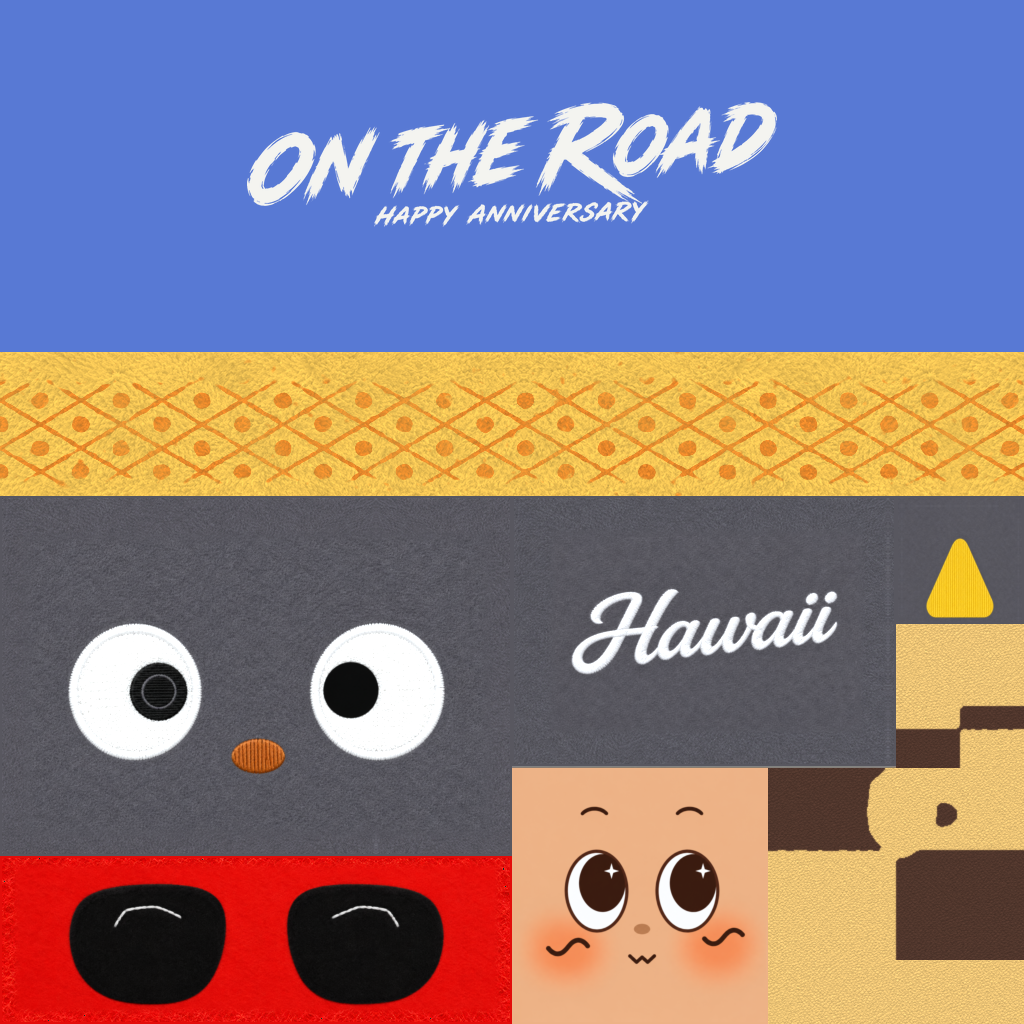
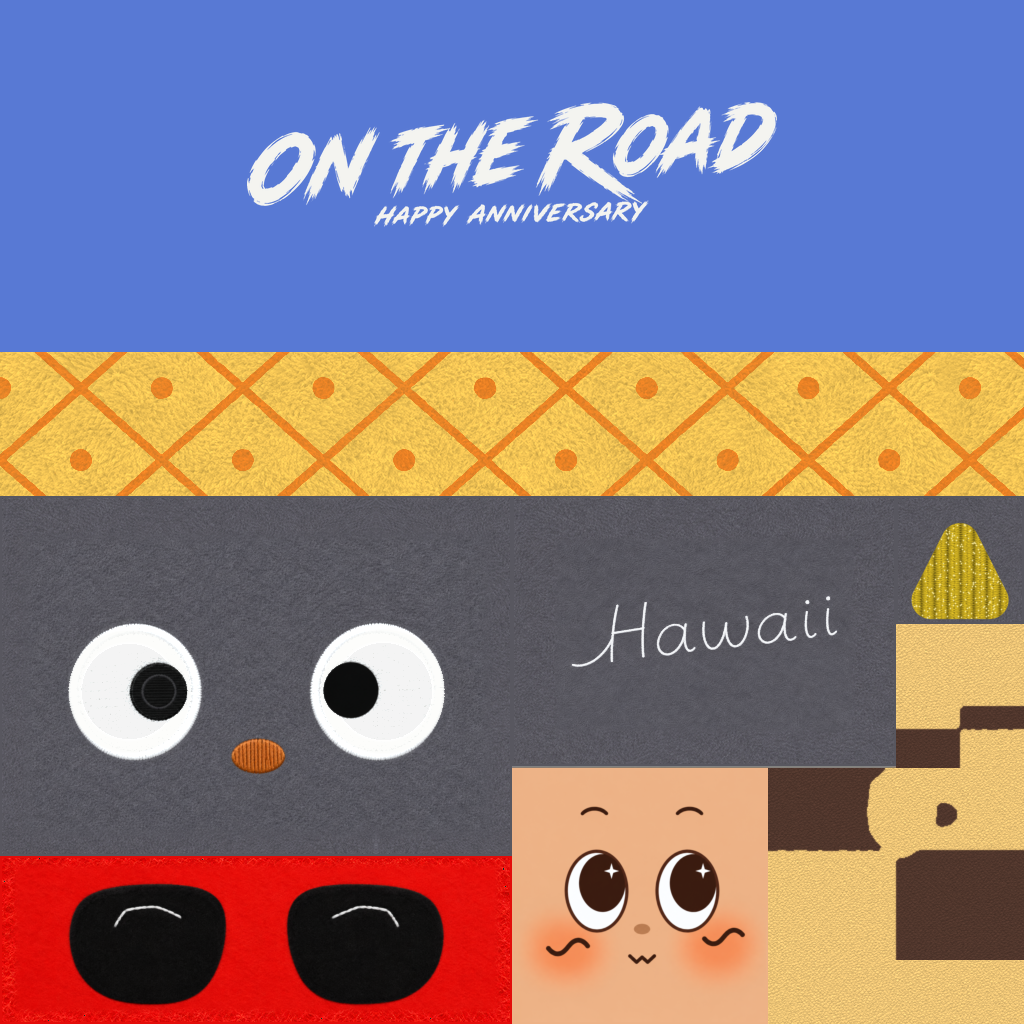
feat(room): the keepsakes' second pass: print, Hawaii, ear and eyes
The four islands the cloud thread asked for again after reading the
first repaint beside the photographs: the pineapple print redrawn at
its real size (six lines each way round the body, a dot in each
diamond, flat orange), "Hawaii" in a light open hand, the ear's lining
in olive gold with a metallic speck, and a wider, brighter rim to the
plush's eyes with a fainter ring in the left pupil. The mug, the
glasses and the figurine are untouched.

Changed region(s): [[0.0, 0.3438, 1.0, 0.625], [0.5625, 0.5625, 0.8125, 0.6562], [0.1562, 0.6562, 0.1875, 0.6875]]

diff --git a/docs/agents/pond-handoff.md b/docs/agents/pond-handoff.md
@@ -155,6 +155,27 @@ what is left, and what was learnt. What is open now is section 0.
   islands and the mug stay as they are. The painted relief on the stitches is slight enough
   to keep.
 
+  _Handed back: the second pass on those four islands_ (the picture 134 KB; the rest is as
+  it was).
+  1. `plush-print`: redrawn large. Six lines each way round the body, 162 pixels apart along
+     the island (970 / 6) and about 8 wide, crossing at about 45° in two rows of whole
+     diamonds 72 pixels tall; one round dot 22 across in the middle of each. A flat mid
+     orange (`#e88024`), no darker at the crossings, its edges a little uneven in the pile.
+     It repeats every 970 pixels exactly and runs to the top and bottom edges, with no plain
+     band under the collar or at the foot. The diamonds' height is a guess: say if the real
+     ones are taller or flatter.
+  2. `plush-back`: "Hawaii" in a light open hand: one thin even stroke about 2 pixels wide,
+     upright letters set wide apart, the word climbing about 8°, a tall open H with a
+     flourish in from the lower left, the w as two u's, nothing under the word, separate dots
+     on the i's. 265 wide with its flourish, centred at (704, 631). At this weight the satin
+     stitch across the stroke no longer shows: it reads as a white thread line.
+  3. `plush-ear`: an olive gold (`#b59a1e`) in upright thread rows with pale specks for the
+     metallic sparkle, as a triangle with three well-rounded corners, 97 wide by 96 tall in
+     its 128 box.
+  4. `plush-face`: each eye's rim is about 13 pixels wide and brighter than the terry inside
+     it, which is a touch greyer than before; the left pupil's ring is at less than half its
+     strength.
+
 - **Next cloud review: the gold window and its koi are ready.** Pull through
   `3792c71`: the chosen wide-2/tall-2 beds and the optional right-shifted bed
   are delivered, along with the third koi sheet and its tint mask. The local
